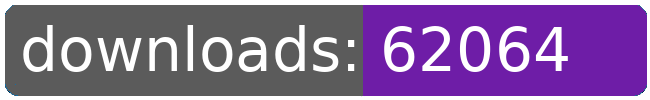
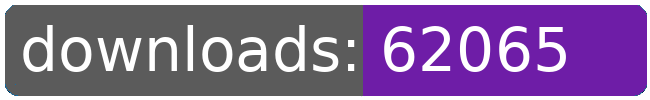
dl log written

Changed region(s): [[0.8, 0.27, 0.8923, 0.72]]

diff --git a/README.md b/README.md
@@ -21,8 +21,8 @@
 		<td>4074</td>
 		<td>4109</td>
 		<td>4134</td>
-		<td>4147</td>
-		<td>+ 13</td>
+		<td>4148</td>
+		<td>+ 14</td>
 	</tr>
 	<tr>
 		<td>aberrant.kahet.outfitter</td>
@@ -274,8 +274,8 @@
 		<td></td>
 		<td></td>
 		<td></td>
-		<td>62064</td>
-		<td>196</td>
+		<td>62065</td>
+		<td>197</td>
 	</tr>
 </table>
 </sub></sup>
@@ -311,8 +311,8 @@
 		<td>4074</td>
 		<td>4109</td>
 		<td>4134</td>
-		<td>4147</td>
-		<td>+ 13</td>
+		<td>4148</td>
+		<td>+ 14</td>
 	</tr>
 	<tr>
 		<td>bunrodeaoutfitter</td>
@@ -553,8 +553,8 @@
 		<td></td>
 		<td></td>
 		<td></td>
-		<td>62064</td>
-		<td>196</td>
+		<td>62065</td>
+		<td>197</td>
 	</tr>
 </table>
 </sub></sup>
